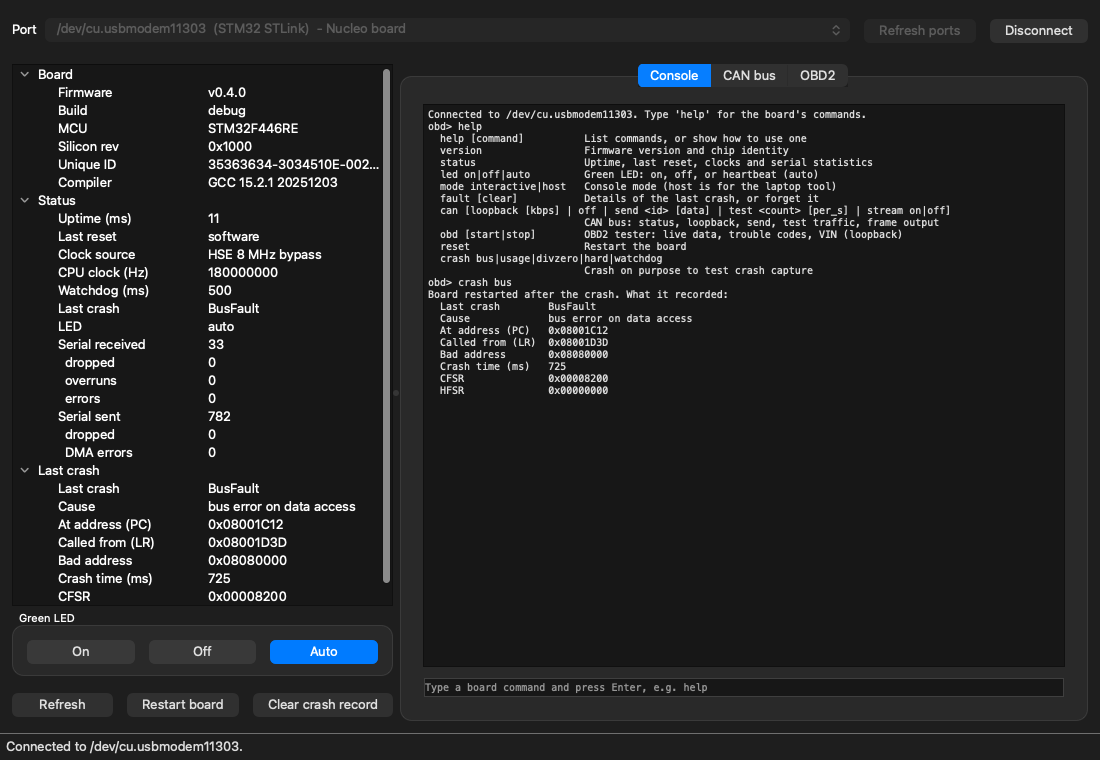
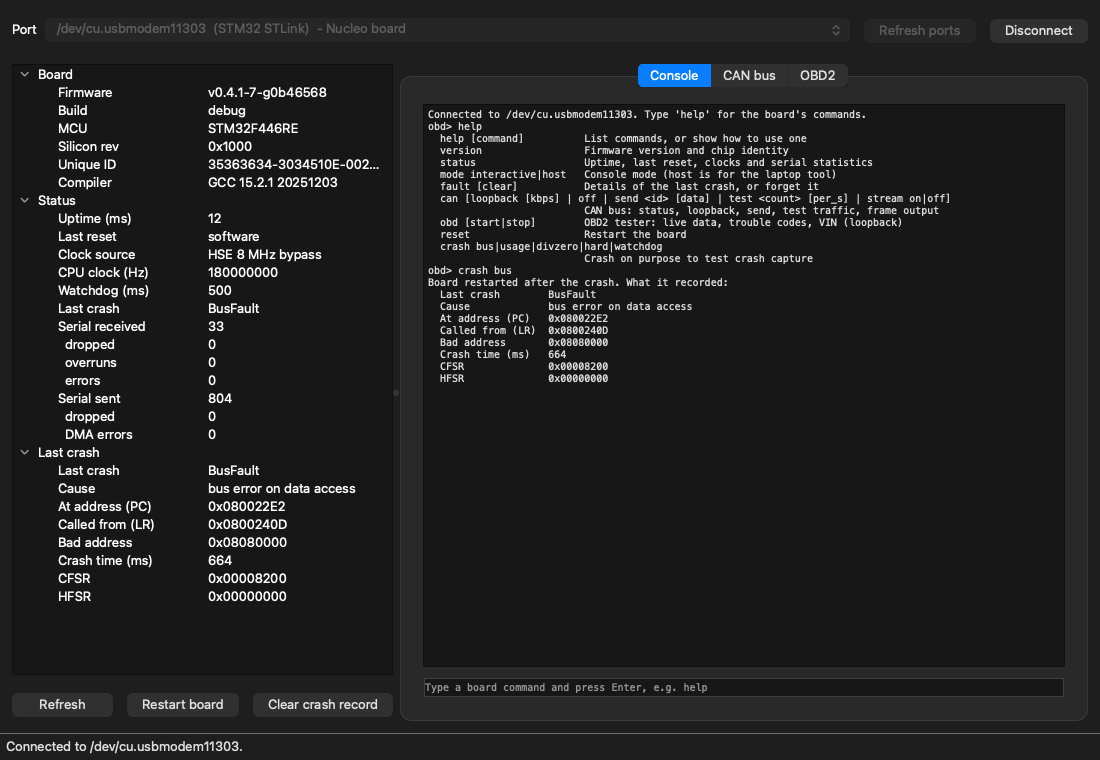
docs: refresh the desktop app screenshots (#65)
Retakes the desktop app screenshots on the board with develop at 0b46568 (the LED buttons are gone). The CAN caption no longer quotes the app's once-a-second rate display. Board check of 0b46568: Debug 18 of 18, Release 14 of 14.

diff --git a/README.md b/README.md
@@ -92,7 +92,7 @@ which also runs from the car's 12 V supply. See [Project status](#project-status
 | Command-line tool | `obdsniff obd watch`, `obdsniff monitor`, `obdsniff can test`, `obdsniff shell`, ... | Watching and logging traffic, scripting, automated checks |
 | Serial terminal | Open the board's USB serial port and type `help` | Using the device with no software installed |
 
-![The desktop app's CAN tab: 10,000 test frames captured on the board at 4,115 a second, none lost](docs/images/desktop-app-can.png)
+![The desktop app's CAN tab: 10,000 test frames captured on the board, none lost](docs/images/desktop-app-can.png)
 
 ![The desktop app's OBD2 tab: live data, trouble codes and VIN read on the board from its simulated engine computer](docs/images/desktop-app-obd.png)
 
